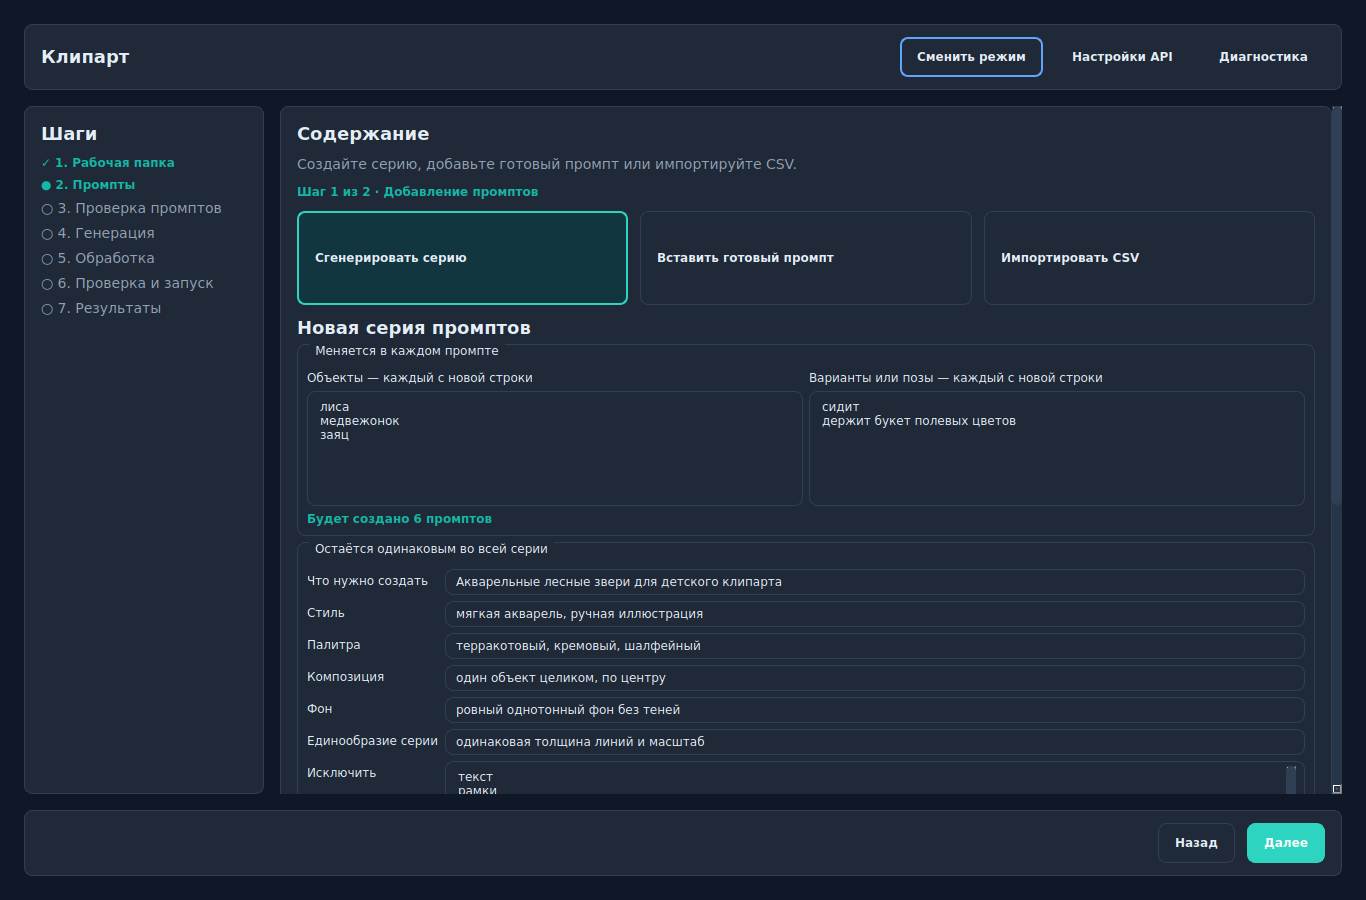
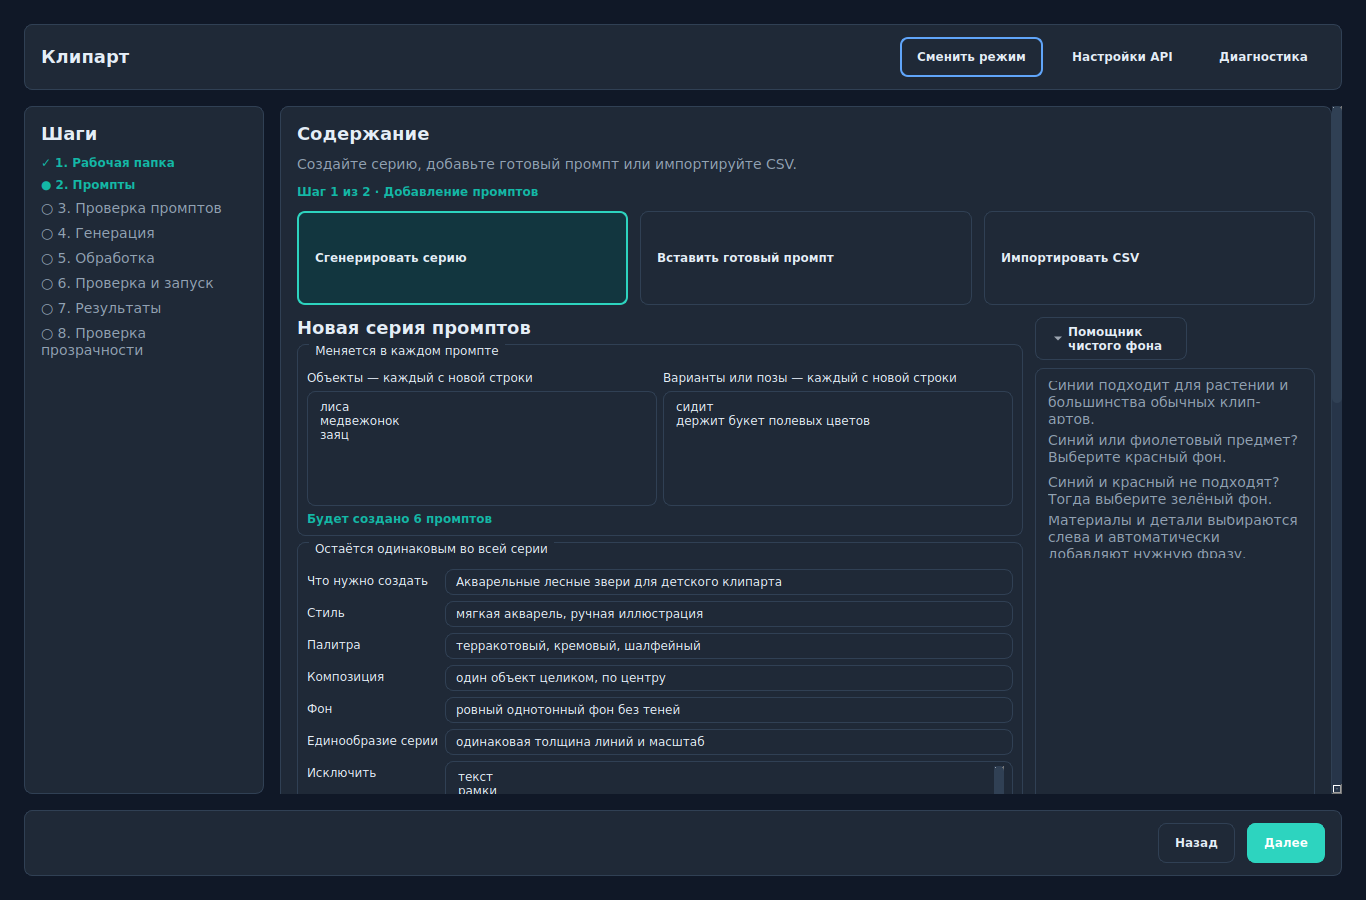
docs: align user guide with 3.1.0

diff --git a/scripts/capture_user_guide_screenshots.py b/scripts/capture_user_guide_screenshots.py
@@ -23,7 +23,7 @@ if str(ROOT) not in sys.path:
 
 from PIL import Image, ImageDraw
 from PyQt6.QtCore import QEvent
-from PyQt6.QtWidgets import QApplication, QLabel, QVBoxLayout, QWidget
+from PyQt6.QtWidgets import QApplication, QWidget
 
 from v3_api_settings import ApiSettingsDialog
 from v3_clipart_flow import install_clipart_flow
@@ -40,7 +40,7 @@ from v3_project_state import (
     StepId,
 )
 from v3_prompt_csv_import import PromptCsvImportDialog
-from v3_transparency_preview import ClipartTransparencyPreview
+from v3_transparency_preview import ClipartTransparencyEditorPage
 from v3_wizard import AppShell
 
 
@@ -116,9 +116,15 @@ def clipart_state(work_dir: Path) -> ProjectState:
         restrictions=["текст", "рамки", "водяные знаки", "обрезанные уши"],
         chroma_key_enabled=True,
         chroma_key_color="blue",
+        chroma_key_materials=["watercolor", "thin_leaves", "transparent_details"],
     )
+    reference_path = work_dir / "licensed-fox-reference.png"
+    create_demo_image(reference_path)
     state.clipart.prompts = [
-        PromptEntry("Акварельная лиса сидит, один объект целиком, по центру"),
+        PromptEntry(
+            "Акварельная лиса сидит, один объект целиком, по центру",
+            [str(reference_path)],
+        ),
         PromptEntry("Акварельный медвежонок держит букет полевых цветов"),
         PromptEntry("Акварельный заяц сидит, мягкая природная палитра"),
     ]
@@ -141,6 +147,16 @@ def capture_clipart_pages(work_dir: Path) -> None:
     page.source_buttons[0].click()
     shell.refresh()
     capture(shell, "03-clipart-prompt-generator.png")
+
+    shell = AppShell(state)
+    controller = install_clipart_flow(shell, runtime_settings_provider=lambda: {})
+    state.set_step(StepId.PROMPTS)
+    page = controller.pages[StepId.PROMPTS]
+    page.source_buttons[0].click()
+    shell.refresh()
+    page.verticalScrollBar().setValue(max(0, page.verticalScrollBar().maximum() - 520))
+    process_events()
+    capture(shell, "14-clipart-chroma-controls.png")
 
     shell = AppShell(state)
     controller = install_clipart_flow(shell, runtime_settings_provider=lambda: {})
@@ -261,22 +277,13 @@ def capture_processing_pages(work_dir: Path) -> None:
 
 def capture_transparency_editor(work_dir: Path) -> None:
     image_path = work_dir / "transparent-fox.png"
-    image = create_demo_image(image_path, transparent=True)
-    preview = ClipartTransparencyPreview()
-    preview.set_image(image)
-    preview.background_combo.setCurrentText("Ярко-розовый")
-    preview.zoom_spin.setValue(75)
-    container = QWidget()
-    apply_v3_theme(container)
-    layout = QVBoxLayout(container)
-    title = QLabel("Редактор прозрачности клипарта")
-    title.setProperty("v3Title", True)
-    subtitle = QLabel("Проверьте края на контрастном фоне и исправьте alpha-маску кистью.")
-    subtitle.setWordWrap(True)
-    layout.addWidget(title)
-    layout.addWidget(subtitle)
-    layout.addWidget(preview, 1)
-    capture(container, "13-transparency-editor.png", size=(980, 820))
+    create_demo_image(image_path, transparent=True)
+    editor = ClipartTransparencyEditorPage()
+    apply_v3_theme(editor)
+    editor.set_files([image_path], rough_dir=work_dir / "rough")
+    editor.background_buttons["Ярко-розовый"].click()
+    editor.zoom_buttons[150].click()
+    capture(editor, "13-transparency-editor.png", size=(1120, 780))
 
 
 def main(argv: list[str] | None = None) -> int:

diff --git a/tests/test_user_guide_documents.py b/tests/test_user_guide_documents.py
@@ -13,6 +13,7 @@ from xml.etree import ElementTree as ET
 from scripts.generate_user_guide_documents import (
     SOURCE,
     TEMP_HTML,
+    GUIDE_APP_VERSION,
     build_docx,
     build_pdf,
     find_browser,
@@ -32,7 +33,7 @@ class UserGuideDocumentTests(unittest.TestCase):
     def test_guide_contains_real_screenshots_and_required_workflows(self):
         validate_inputs(self.blocks)
         images = [block for block in self.blocks if block.kind == "image"]
-        self.assertEqual(len(images), 13)
+        self.assertEqual(len(images), 14)
         self.assertTrue(all(resolve_asset(str(block.value)).is_file() for block in images))
         source = SOURCE.read_text(encoding="utf-8")
         for required in (
@@ -43,8 +44,18 @@ class UserGuideDocumentTests(unittest.TestCase):
             "Редактирование прозрачности",
             "Режим Pinterest",
             "Режим Processing",
+            "Версия приложения: 3.1.0",
+            "Проверить прозрачность",
         ):
             self.assertIn(required, source)
+        self.assertNotIn("Версия приложения: 3.0.7", source)
+        self.assertNotIn("редактор alpha-маски **временно скрыт**", source)
+
+        release_version = (SOURCE.parent / "release" / "VERSION.txt").read_text(
+            encoding="utf-8"
+        ).strip()
+        self.assertEqual(GUIDE_APP_VERSION, release_version)
+        self.assertIn(f"Версия приложения: {release_version}", source)
 
         section_count = sum(block.kind == "heading2" for block in self.blocks)
         contents = source.split("## 1. Что умеет приложение", 1)[0]
@@ -53,7 +64,8 @@ class UserGuideDocumentTests(unittest.TestCase):
 
     def test_html_contains_every_image_and_print_footer(self):
         document = html_document(self.blocks)
-        self.assertEqual(document.count("<figure>"), 13)
+        self.assertEqual(document.count("<figure>"), 14)
+        self.assertIn("Версия 3.1.0", document)
         self.assertIn("counter(pages)", document)
         self.assertIn("Vibix Images · Руководство пользователя", document)
 
@@ -65,7 +77,7 @@ class UserGuideDocumentTests(unittest.TestCase):
                 self.assertIsNone(archive.testzip())
                 names = set(archive.namelist())
                 media = [name for name in names if name.startswith("word/media/image")]
-                self.assertEqual(len(media), 13)
+                self.assertEqual(len(media), 14)
                 for name in names:
                     if name.endswith(".xml") or name.endswith(".rels"):
                         ET.fromstring(archive.read(name))
@@ -89,7 +101,7 @@ class UserGuideDocumentTests(unittest.TestCase):
             )
             self.assertEqual(result.returncode, 0, result.stderr)
             images = sorted(destination.glob("*.png"))
-            self.assertEqual(len(images), 13)
+            self.assertEqual(len(images), 14)
             self.assertTrue(all(width >= 900 and height >= 650 for width, height in map(png_size, images)))
 
     def test_pdf_render_smoke(self):

diff --git a/scripts/generate_user_guide_documents.py b/scripts/generate_user_guide_documents.py
@@ -27,6 +27,7 @@ PDF_OUTPUT = ROOT / "output" / "pdf" / "Vibix_Images_User_Guide.ru.pdf"
 DOCX_OUTPUT = ROOT / "output" / "doc" / "Vibix_Images_User_Guide.ru.docx"
 TEMP_HTML = ROOT / "tmp" / "pdfs" / "Vibix_Images_User_Guide.ru.html"
 GUIDE_CREATED_AT = "2026-08-30T00:00:00Z"
+GUIDE_APP_VERSION = "3.1.0"
 
 
 @dataclass(frozen=True)
@@ -179,11 +180,17 @@ def html_document(blocks: list[Block]) -> str:
                 f"<h1>{inline_html(str(block.value))}</h1>"
                 '<p class="lead">От API-ключей и промптов до прозрачных PNG, '
                 "Pinterest и обработки готовых изображений.</p>"
-                '<div class="cover-meta">Версия 3.0.7 · 30 августа 2026 года</div>'
+                f'<div class="cover-meta">Версия {GUIDE_APP_VERSION} · 30 августа 2026 года</div>'
                 "</section>"
             )
         elif block.kind == "heading2":
-            body.append(f'<h2 class="section">{inline_html(str(block.value))}</h2>')
+            heading = str(block.value)
+            section_class = (
+                "section section-flow"
+                if heading.startswith(("4. ", "10. ", "15. "))
+                else "section"
+            )
+            body.append(f'<h2 class="{section_class}">{inline_html(heading)}</h2>')
         elif block.kind == "heading3":
             body.append(f"<h3>{inline_html(str(block.value))}</h3>")
         elif block.kind == "paragraph":
@@ -227,6 +234,7 @@ a { color: #087f78; text-decoration: none; overflow-wrap: anywhere; }
 h1 { margin: 15mm 0 8mm; max-width: 155mm; color: #fff; font-size: 31pt; line-height: 1.08; }
 h2 { margin: 0 0 4mm; color: #0d4f57; font-size: 19pt; line-height: 1.2; break-after: avoid; }
 h2.section { break-before: page; }
+h2.section-flow { break-before: auto; margin-top: 9mm; }
 h3 { margin: 7mm 0 2.5mm; color: #14666b; font-size: 13.5pt; line-height: 1.25; break-after: avoid; }
 p { margin: 0 0 3.2mm; orphans: 3; widows: 3; }
 ol, ul { margin: 0 0 4mm 5mm; padding-left: 5mm; }
@@ -473,7 +481,7 @@ def build_docx(blocks: list[Block], destination: Path) -> None:
                 "От API-ключей и промптов до прозрачных PNG, Pinterest и обработки готовых изображений.",
                 "Subtitle",
             )
-            builder.paragraph("Версия 3.0.7 · 30 августа 2026 года")
+            builder.paragraph(f"Версия {GUIDE_APP_VERSION} · 30 августа 2026 года")
             builder.page_break()
         elif block.kind == "heading2":
             builder.paragraph(str(block.value), "Heading1")

diff --git a/STATE.md b/STATE.md
@@ -371,14 +371,14 @@ regression и полный offline suite проходят: 981 passed, 55 intent
   keys, structured prompts and references, CSV mapping, Clipart generation,
   local chroma key, background removal, Pinterest prompt-only generation and
   standalone Processing.
-- Thirteen screenshots are captured from the real PyQt interface with
+- Fourteen screenshots are captured from the real PyQt 3.1.0 interface with
   synthetic data and no credentials, provider calls or project draft writes.
 - Reproducible scripts create A4 PDF and DOCX editions. The PDF is rendered and
   reviewed page by page; the DOCX package, relationships, XML and embedded
   media are checked offline.
-- The guide states the two current release boundaries explicitly: Pinterest
-  has no product-upload/post-processing route in 3.0.7, and the implemented
-  alpha-mask editor is temporarily hidden in the stable client.
+- The guide now follows the 3.1.0 release candidate: the dedicated alpha-mask
+  editor is available from successful Clipart and Processing PNG results;
+  Pinterest remains prompt-only and has no product-upload/post-processing route.
 
 ## Pinterest Pins Task 6 checkpoint — 2026-08-28
 
